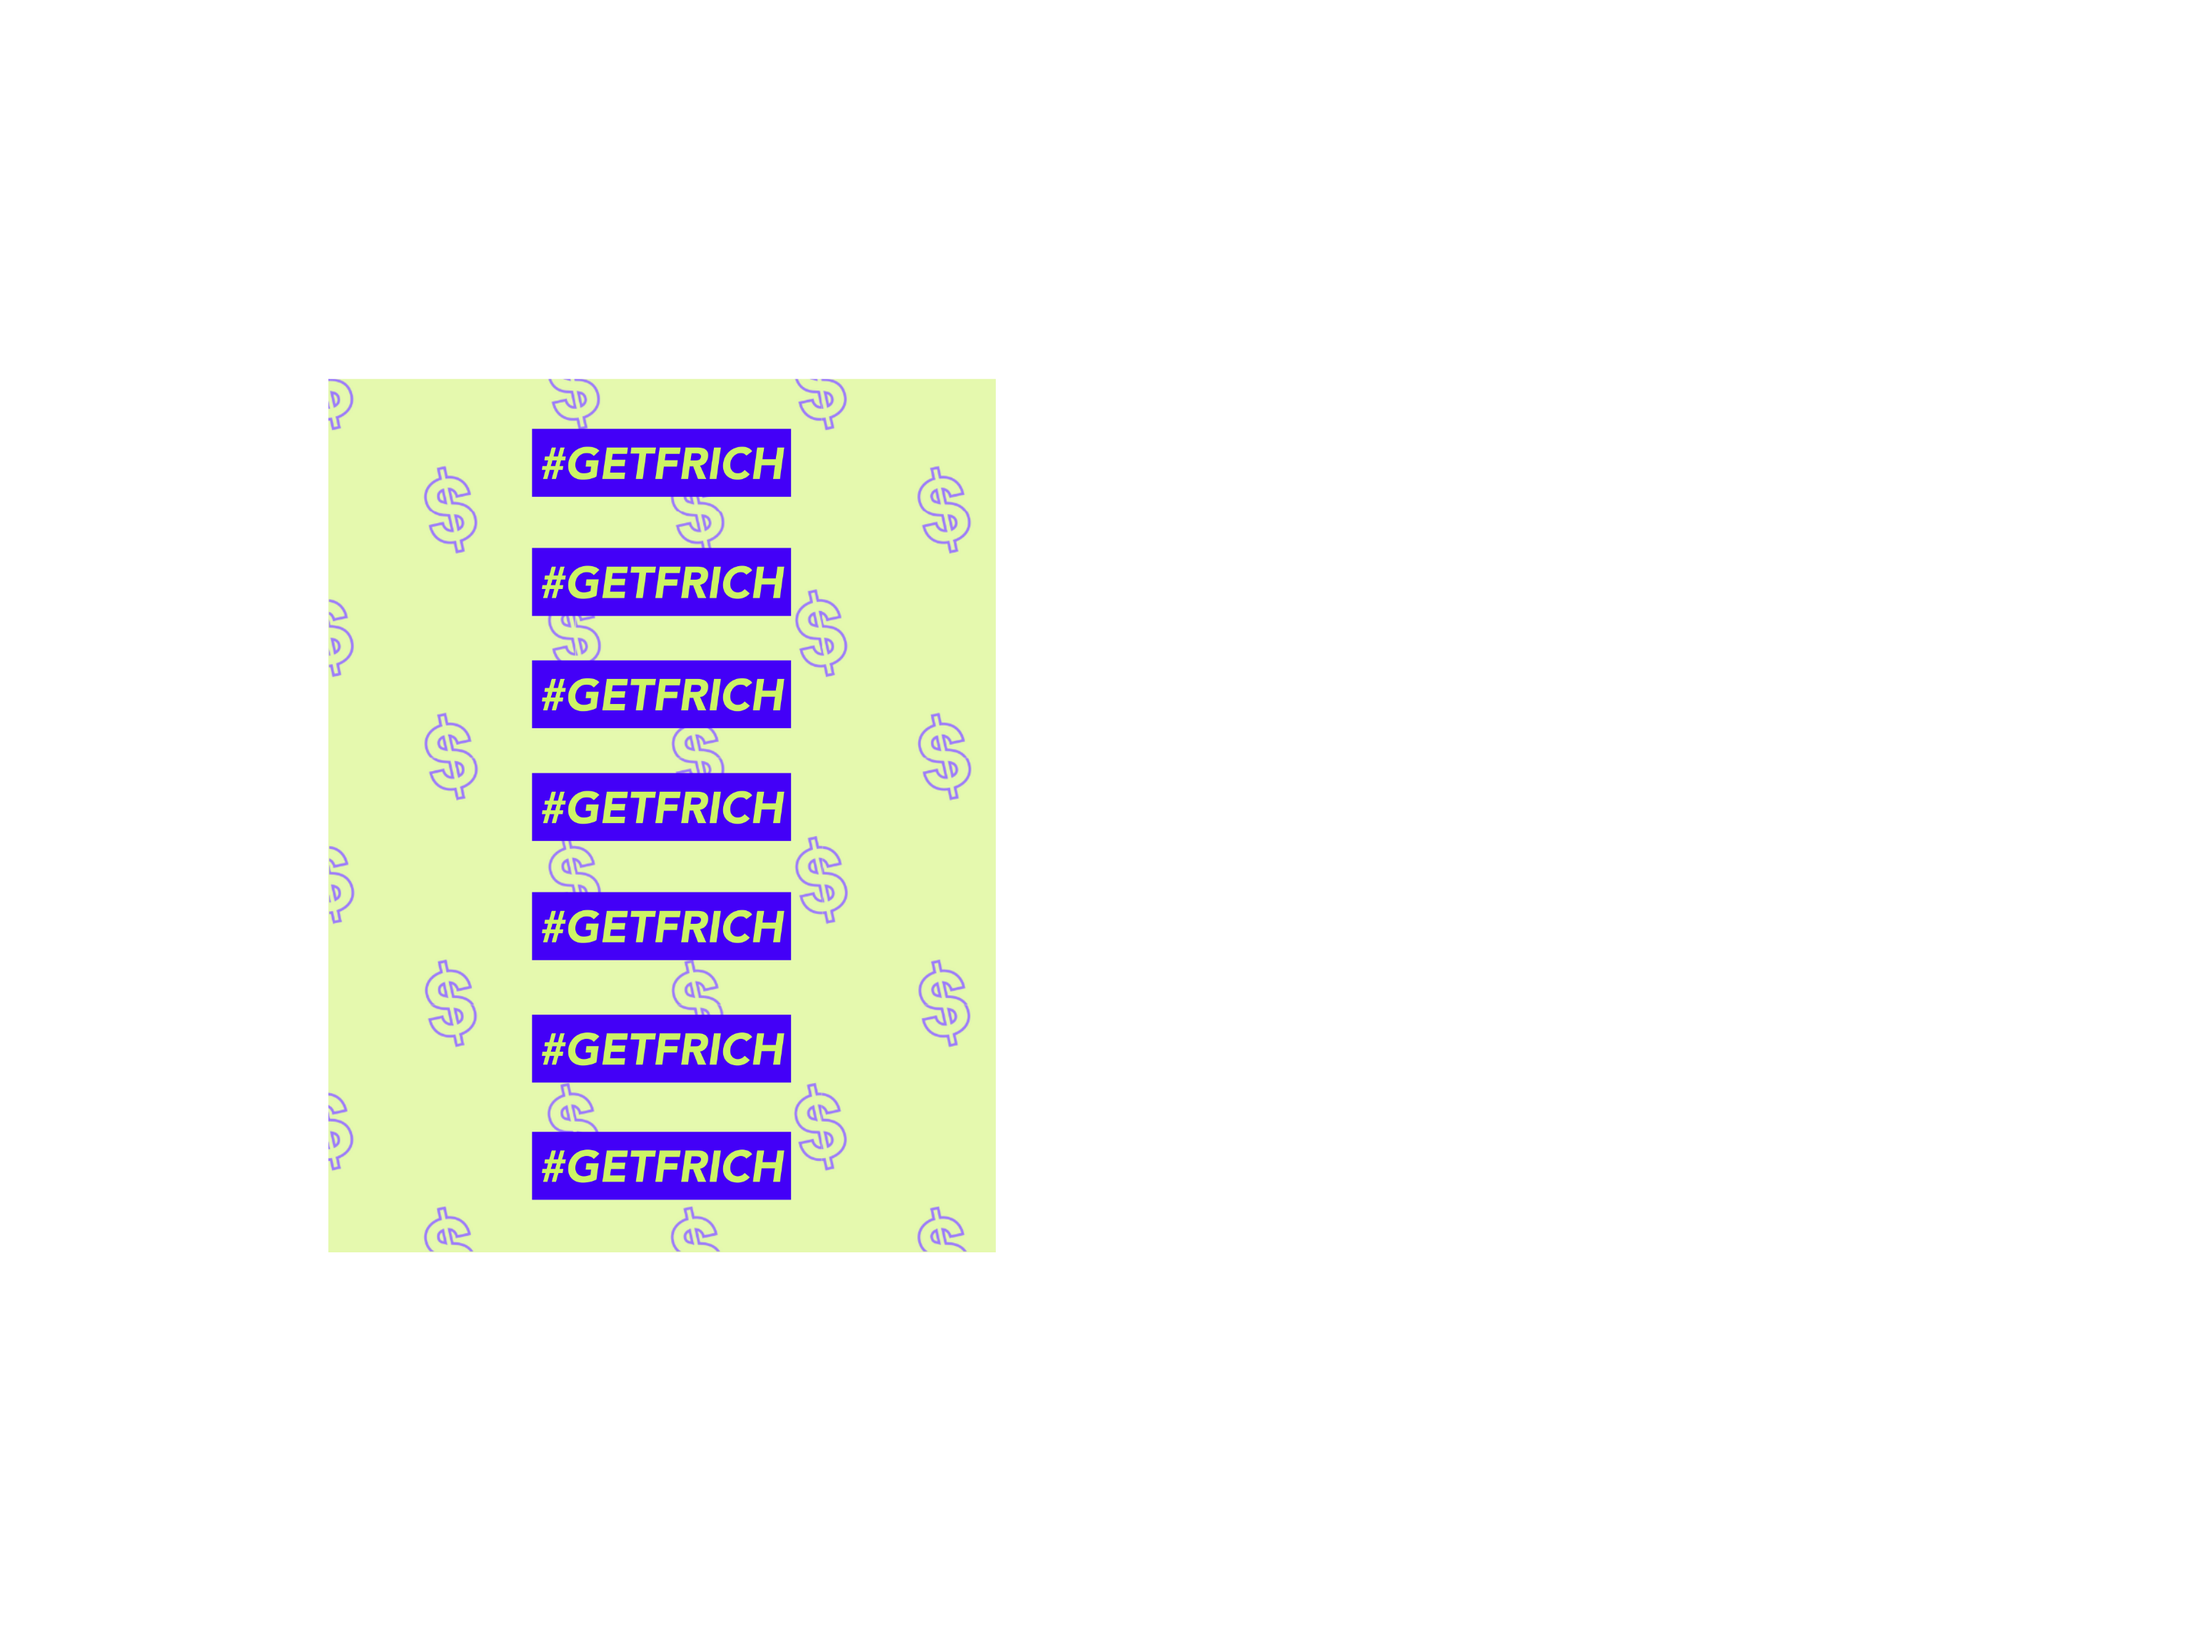
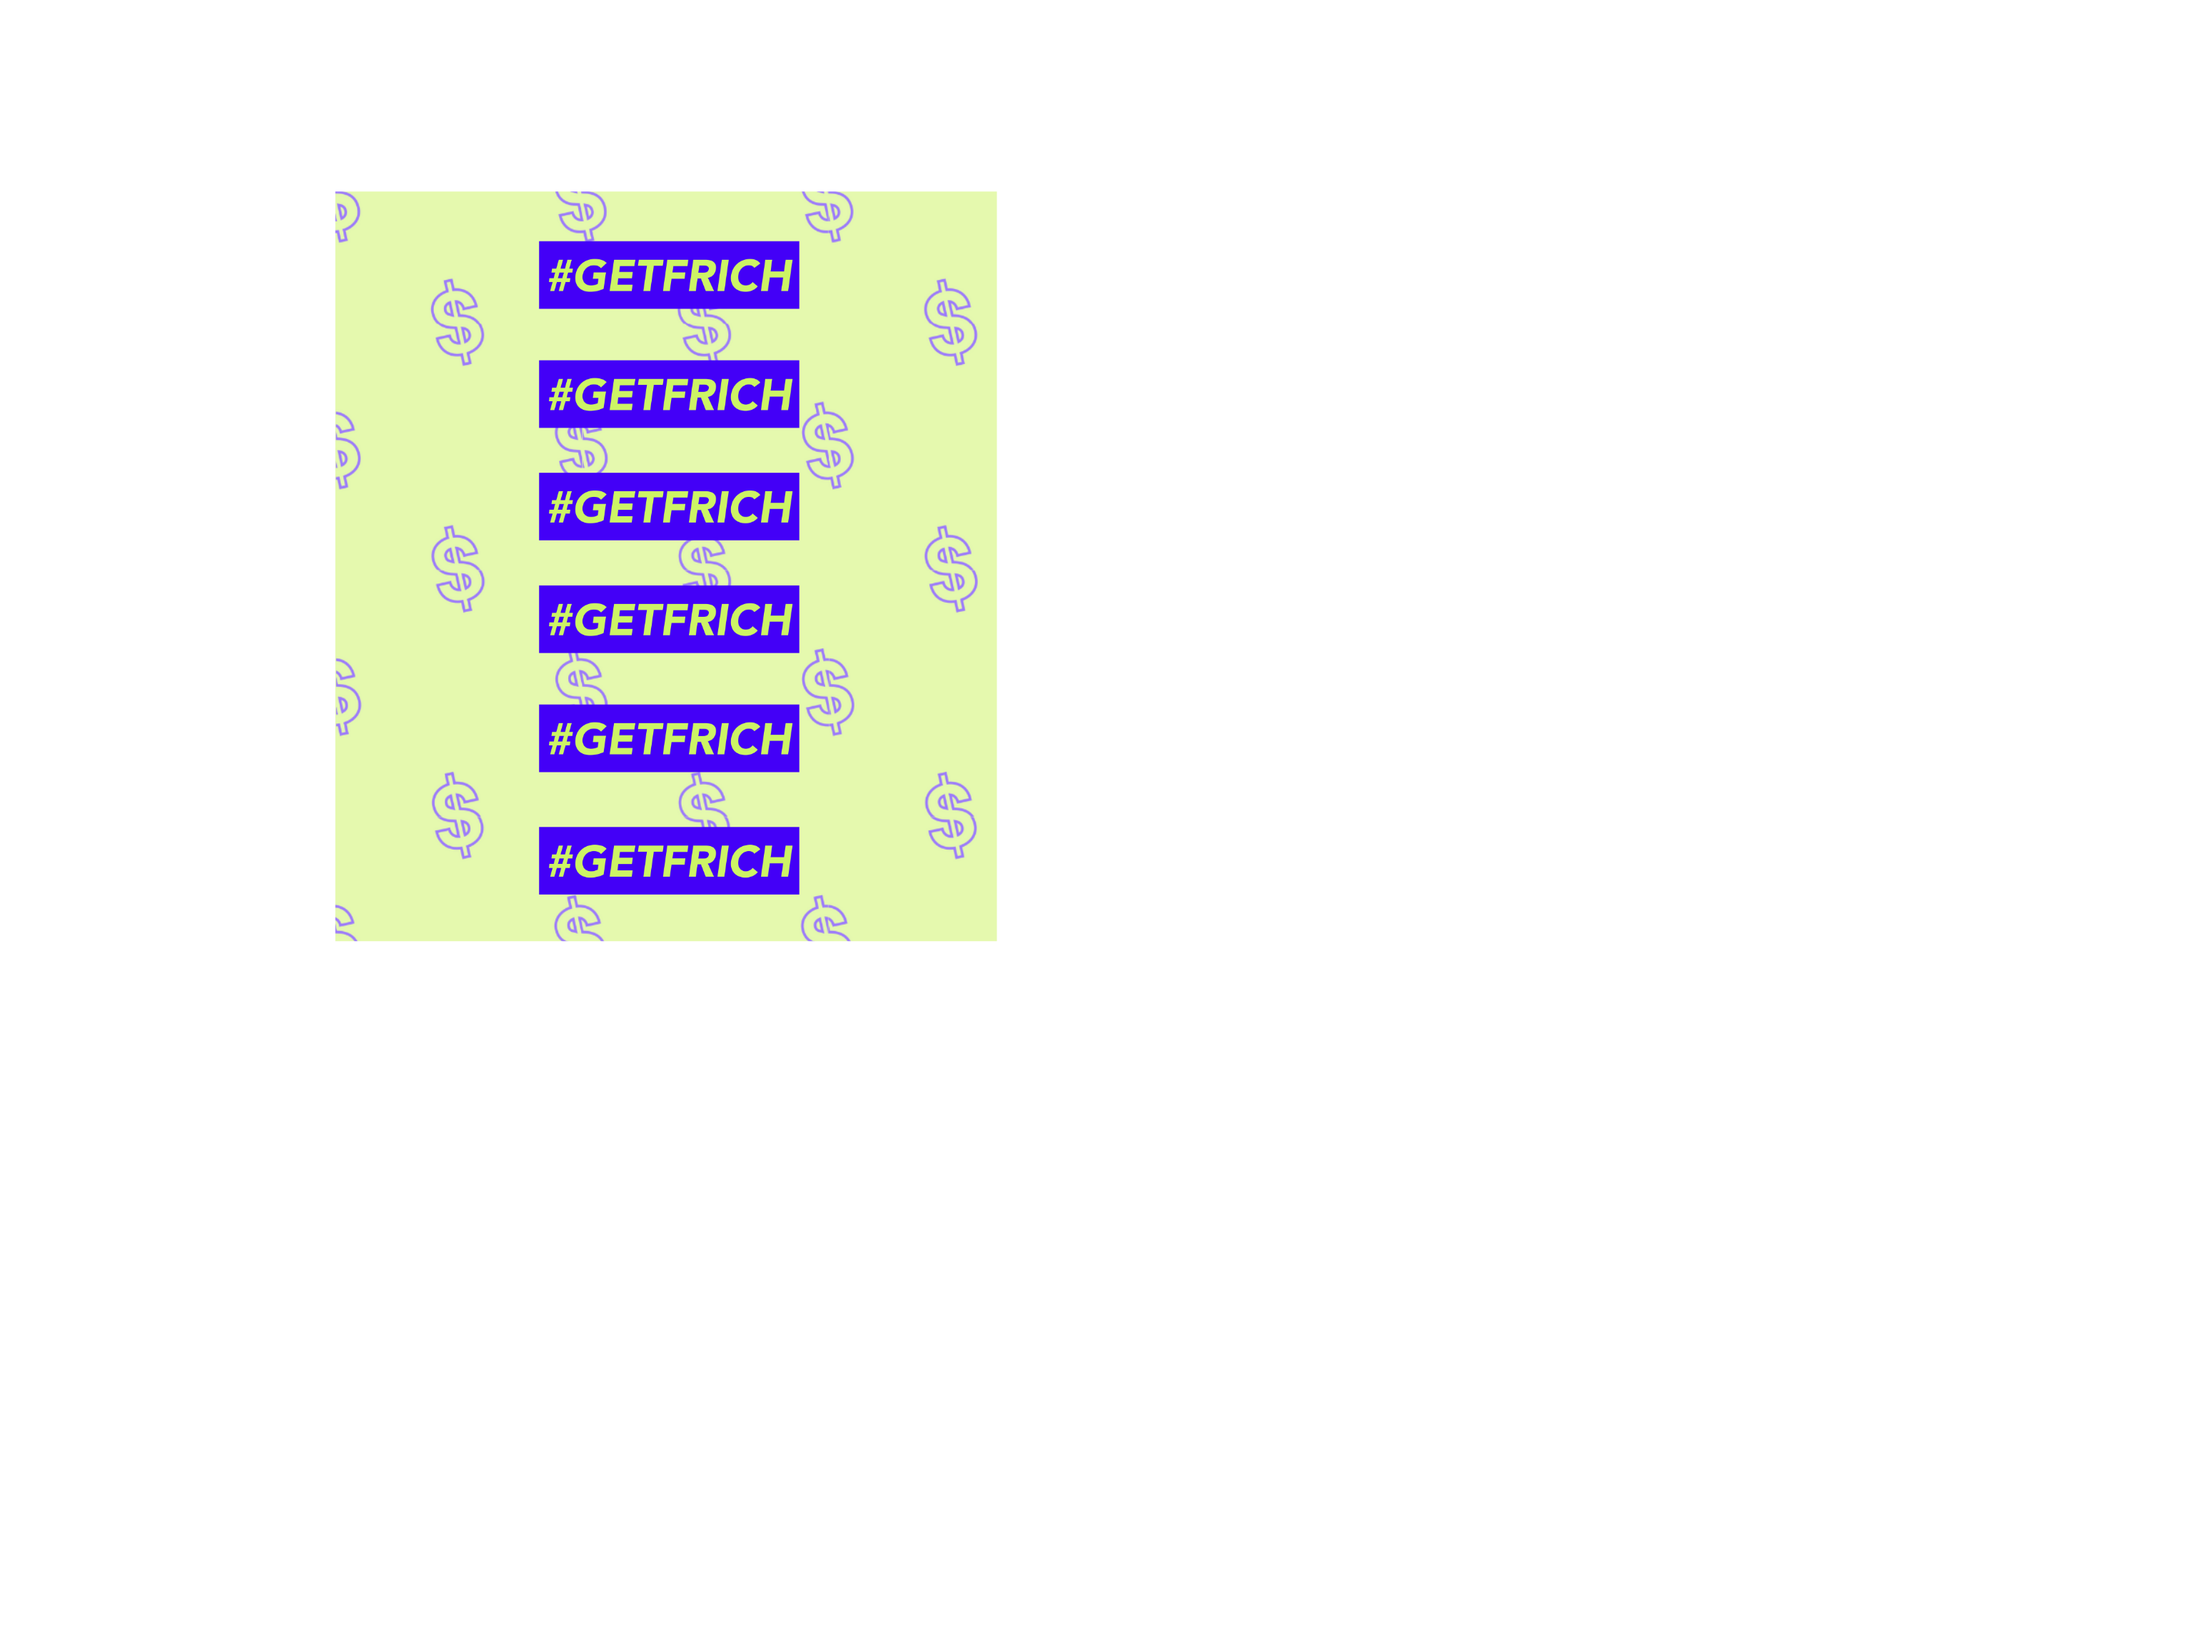
style the ambassador log-in page

Changed region(s): [[0.125, 0.0938, 0.4688, 0.7812], [0.4062, 0.4375, 0.4375, 0.5312], [0.4062, 0.2812, 0.4375, 0.375]]

diff --git a/client/src/App/Components/AuthenticationForm/AmbassadorAuthenticationForm.js b/client/src/App/Components/AuthenticationForm/AmbassadorAuthenticationForm.js
@@ -46,27 +46,21 @@ const AdminAuthenticationForm = (props) => {
         
         history.replace("/ambassador");
     })
-        .catch(() => alert("THERE WAS A PROBLEM. TRY AGAIN!"));
+        .catch(() => alert("OOPS! THERE WAS A PROBLEM. TRY AGAIN!"));
   };
 
   return (
     <div className={`${classes.mainContainer} ${props.className}`}>
-      <h1>Log In</h1>
+      <div className={classes.mainHeading}>
+        AMBASSADOR LOG-IN
+      </div>
 
       <form method="POST" onSubmit={ submissionHandler }>
-        <div>
-          <label htmlFor="email">Your Email</label>
-          <input type="email" id="email" required onChange={emailChangeHandler} />
-        </div>
+        <input className={classes.inputBox} type="email" id="email" placeholder="Your Email" required onChange={emailChangeHandler} />
 
-        <div>
-          <label htmlFor="password">Your Password</label>
-          <input type="password" id="password" required onChange={passwordChangeHandler} />
-        </div>
+        <input className={classes.inputBox} type="password" id="password" placeholder="Your Password" required onChange={passwordChangeHandler} />
 
-        <div>
-          <button type="submit">Log In</button>
-        </div>
+        <input className={classes.submission} type="submit" value="LOG IN" />
       </form>
     </div>
   );

diff --git a/client/src/App/Components/AuthenticationForm/AmbassadorAuthenticationForm.module.css b/client/src/App/Components/AuthenticationForm/AmbassadorAuthenticationForm.module.css
@@ -2,6 +2,44 @@
     border: 3px solid #3C06EB;
     background-color: #D7F684;
     font-family: "Montserrat", sans-serif;
-    margin-bottom: 50rem;
-    width: 30rem;
+    width: 25rem;
+    text-align: center;
+    padding: 20px;
+    margin-left: 0.5rem;
+    margin-bottom: 20rem;
+}
+
+.mainHeading{
+    font-style: "Montserrat" sans-serif;
+    font-weight: bold;
+    color: #FF6E00;
+    text-align: center;
+    font-size: 1.8rem;
+    margin-bottom: 20px;
+}
+
+.inputBox {
+    display: block;
+    margin: 1rem auto;
+    border: 1px solid #4300F7;
+    resize: none;
+    width: 80%;
+    text-align: center;
+}
+
+input::placeholder {
+    font-size: 1rem;
+    color: #4300F7
+}
+
+.submission {
+    grid-area: submission;
+    border: 2px solid #FF6E00;
+    background-color: #4300F7;
+    margin: 10px auto;
+    width: 50%;
+    color: #FF6E00;
+    font-size: 20px;
+    font-weight: bold;
+    cursor: pointer;
 }

diff --git a/client/src/App/Pages/OtherPages/AuthenticationPage.module.css b/client/src/App/Pages/OtherPages/AuthenticationPage.module.css
@@ -9,6 +9,19 @@
 
 .authenticationForm {
     position: relative;
-    left: 80%;
-    top: 12.5rem;
+    left: 75%;
+    top: 10rem;
+}
+
+@media (max-width: 800px){
+    .authenticationPageBackground {
+        background: white;
+    }
+    
+    .authenticationForm {
+        position: relative;
+        left: auto;
+        right: auto;
+        top: 10rem;
+    }
 }

diff --git a/client/src/App/Pages/Admin/AdminAuthenticationPage.module.css b/client/src/App/Pages/Admin/AdminAuthenticationPage.module.css
@@ -1,5 +1,5 @@
 .authenticationPageBackground{
-    background: url("../../../assets/authenticationPageBackground.png");
+    background: url("../../../assets/editedAuthenticationPageBackground.png");
     background-repeat: no-repeat;
     -webkit-background-size: cover;
     -moz-background-size: cover;

diff --git a/client/src/App/Components/AuthenticationForm/AdminAuthenticationForm.js b/client/src/App/Components/AuthenticationForm/AdminAuthenticationForm.js
@@ -46,7 +46,7 @@ const AdminAuthenticationForm = (props) => {
 
         history.replace("/admin");
     })
-        .catch(() => alert("THERE WAS A PROBLEM. TRY AGAIN!"));
+        .catch(() => alert("OOPS! THERE WAS A PROBLEM. TRY AGAIN!"));
   };
 
   return (

diff --git a/client/src/App/Components/Application/ApplicationConfirmation.module.css b/client/src/App/Components/Application/ApplicationConfirmation.module.css
@@ -2,7 +2,8 @@
     border: 3px solid #4300F7;
     background-color: #D7F684;
     font-family: "Roboto", sans-serif;
-    margin-bottom: 10rem
+    margin-top: 8rem;
+    margin-bottom: 25rem;
 }
 
 .message {

diff --git a/client/src/App/Components/Application/ApplicationForm.module.css b/client/src/App/Components/Application/ApplicationForm.module.css
@@ -13,6 +13,7 @@
     border: 3px solid blue;
     background-color: #D7F684;
     font-family: "Montserrat", sans-serif;
+    margin-bottom: 10rem;
 }
 
 .gridContainer {
